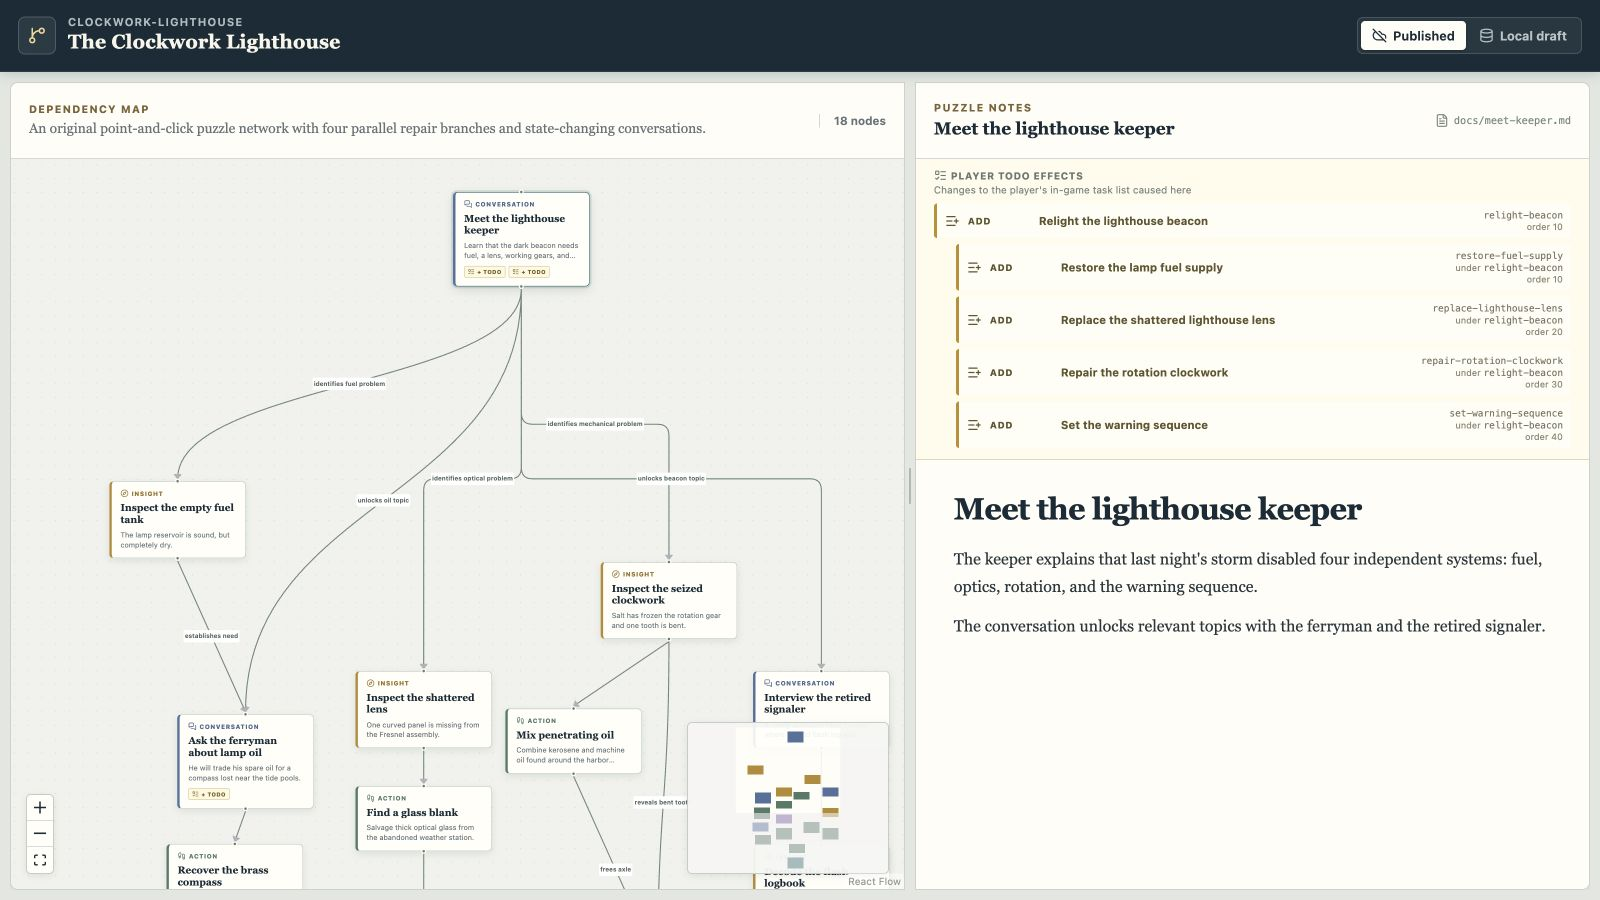
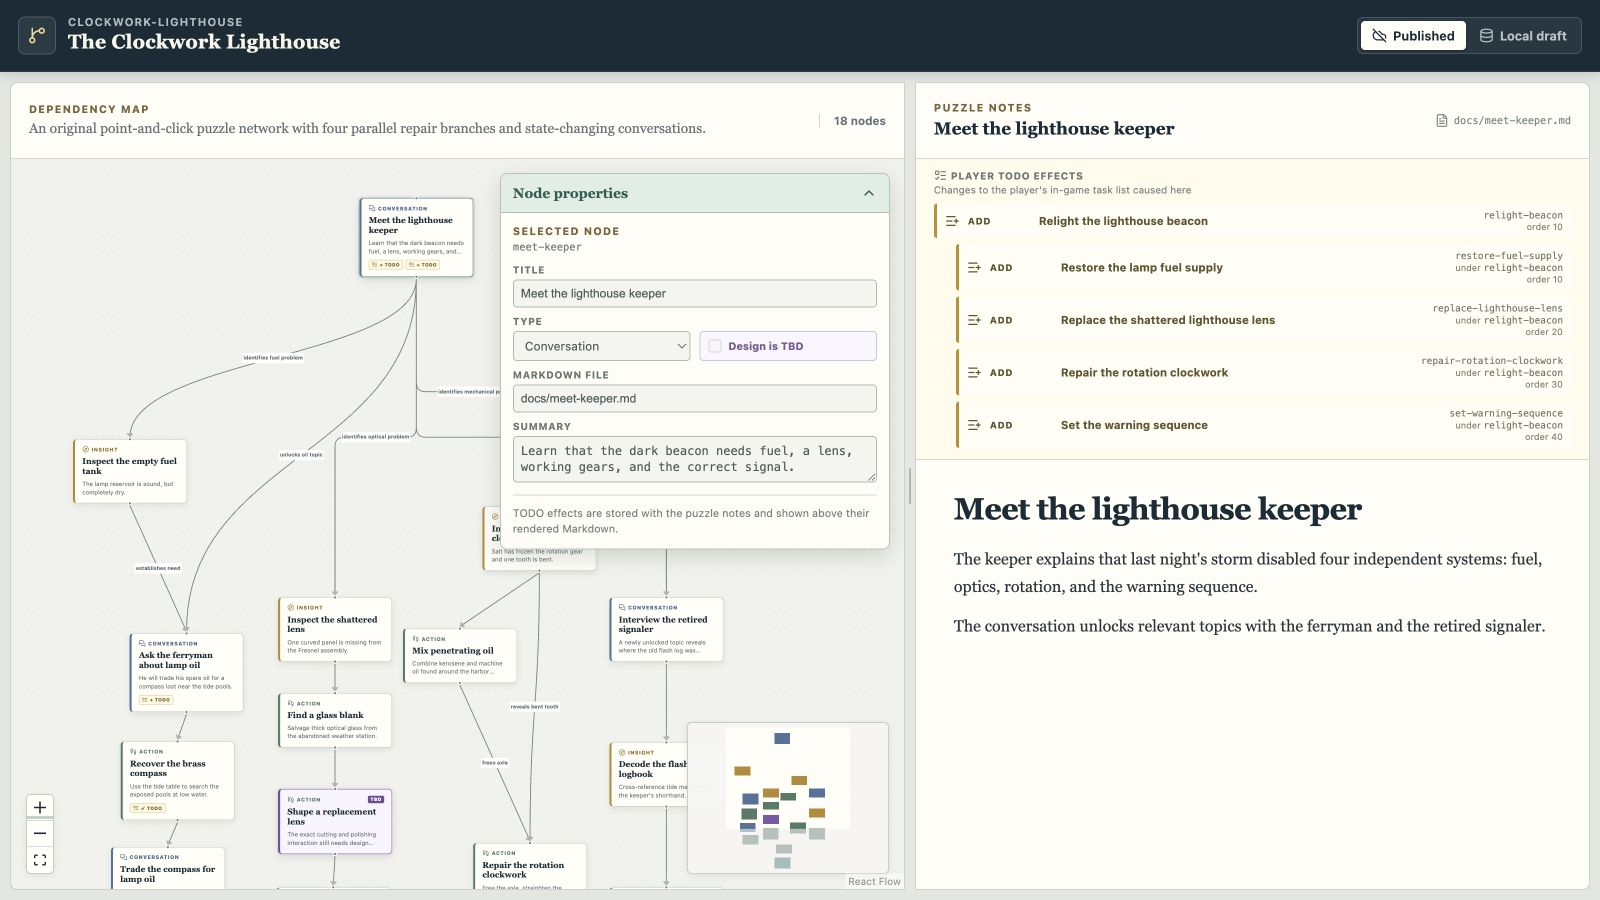
Show node properties in the published viewer
Keep the selected node inspector visible in Published mode with read-only metadata fields and no destructive controls. Preserve its collapsible behavior, add regression coverage and the corresponding architectural invariant, and refresh the README screenshot with a tightly framed Pages-build capture.

diff --git a/src/components/GraphPane.tsx b/src/components/GraphPane.tsx
@@ -486,9 +486,10 @@ export function GraphPane({
           collapsed={inspectorCollapsed}
           onToggle={() => setInspectorCollapsedState(!inspectorCollapsed)}
         />
-      ) : editable && selectedNode ? (
+      ) : selectedNode ? (
         <NodeInspector
           node={selectedNode}
+          editable={editable}
           onUpdate={(patch, label) =>
             updateNode(selectedNode.id, patch, label)
           }
@@ -503,6 +504,7 @@ export function GraphPane({
 
 interface NodeInspectorProps {
   node: PuzzleNodeDefinition;
+  editable: boolean;
   onUpdate: (patch: Partial<PuzzleNodeDefinition>, label: string) => void;
   onDelete: () => void;
   collapsed: boolean;
@@ -511,6 +513,7 @@ interface NodeInspectorProps {
 
 function NodeInspector({
   node,
+  editable,
   onUpdate,
   onDelete,
   collapsed,
@@ -542,22 +545,26 @@ function NodeInspector({
             <span className="eyebrow">Selected node</span>
             <code>{node.id}</code>
           </div>
-          <div className="inspector-header-actions">
-            <ConfirmDeleteButton
-              triggerLabel={`Delete ${node.title}`}
-              title={`Delete “${node.title}”?`}
-              message="The node and its dependencies will be removed from the chart. Its Markdown file will be kept."
-              confirmLabel="Delete node"
-              onConfirm={onDelete}
-            />
-          </div>
+          {editable ? (
+            <div className="inspector-header-actions">
+              <ConfirmDeleteButton
+                triggerLabel={`Delete ${node.title}`}
+                title={`Delete “${node.title}”?`}
+                message="The node and its dependencies will be removed from the chart. Its Markdown file will be kept."
+                confirmLabel="Delete node"
+                onConfirm={onDelete}
+              />
+            </div>
+          ) : null}
         </header>
         <label>
           <span>Title</span>
           <input
             key={`${node.id}:title:${node.title}`}
             defaultValue={node.title}
+            readOnly={!editable}
             onBlur={(event) => {
+              if (!editable) return;
               const title = event.currentTarget.value.trim();
               if (title) onUpdate({ title }, "Rename node");
               else event.currentTarget.value = node.title;
@@ -569,12 +576,14 @@ function NodeInspector({
             <span>Type</span>
             <select
               value={node.kind}
-              onChange={(event) =>
+              disabled={!editable}
+              onChange={(event) => {
+                if (!editable) return;
                 onUpdate(
                   { kind: event.target.value as PuzzleKind },
                   "Change node type",
-                )
-              }
+                );
+              }}
             >
               {puzzleKinds.map((kind) => (
                 <option key={kind} value={kind}>
@@ -587,12 +596,14 @@ function NodeInspector({
             <input
               type="checkbox"
               checked={node.status === "tbd"}
-              onChange={(event) =>
+              disabled={!editable}
+              onChange={(event) => {
+                if (!editable) return;
                 onUpdate(
                   { status: event.target.checked ? "tbd" : undefined },
                   event.target.checked ? "Mark node TBD" : "Mark node designed",
-                )
-              }
+                );
+              }}
             />
             <span>Design is TBD</span>
           </label>
@@ -602,8 +613,10 @@ function NodeInspector({
           <input
             key={`${node.id}:document:${node.document}`}
             defaultValue={node.document}
+            readOnly={!editable}
             spellCheck={false}
             onBlur={(event) => {
+              if (!editable) return;
               const document = event.currentTarget.value.trim();
               if (document.endsWith(".md")) {
                 onUpdate({ document }, "Change document path");
@@ -617,18 +630,21 @@ function NodeInspector({
           <textarea
             key={`${node.id}:summary:${node.summary ?? ""}`}
             defaultValue={node.summary}
+            readOnly={!editable}
             rows={2}
-            onBlur={(event) =>
+            onBlur={(event) => {
+              if (!editable) return;
               onUpdate(
                 { summary: event.currentTarget.value.trim() || undefined },
                 "Edit node summary",
-              )
-            }
+              );
+            }}
           />
         </label>
         <p className="todo-markdown-hint">
-          TODO effects live in a source-only comment and are edited beside the
-          node&apos;s puzzle notes.
+          {editable
+            ? "TODO effects live in a source-only comment and are edited beside the node’s puzzle notes."
+            : "TODO effects are stored with the puzzle notes and shown above their rendered Markdown."}
         </p>
       </div> : null}
     </aside>

diff --git a/tests/graph-pane.test.tsx b/tests/graph-pane.test.tsx
@@ -1,0 +1,80 @@
+// @vitest-environment jsdom
+
+import type { ReactNode } from "react";
+import { cleanup, fireEvent, render, screen } from "@testing-library/react";
+import { afterEach, describe, expect, it, vi } from "vitest";
+
+afterEach(() => {
+  window.sessionStorage.clear();
+  cleanup();
+});
+
+vi.mock("@xyflow/react", () => ({
+  ReactFlow: ({ children }: { children: ReactNode }) => <div>{children}</div>,
+  Background: () => null,
+  BackgroundVariant: { Dots: "dots" },
+  Controls: () => null,
+  MiniMap: () => null,
+  SelectionMode: { Partial: "partial" },
+  applyNodeChanges: (_changes: unknown, nodes: unknown) => nodes,
+}));
+
+import { GraphPane } from "../src/components/GraphPane";
+import type { PuzzleProject } from "../src/lib/project-types";
+
+const project: PuzzleProject = {
+  projectName: "viewer-test",
+  writable: false,
+  graph: {
+    version: 1,
+    title: "Viewer test",
+    nodes: [
+      {
+        id: "first",
+        title: "First puzzle",
+        document: "docs/first.md",
+        kind: "insight",
+        summary: "Notice the important clue.",
+        status: "tbd",
+      },
+    ],
+    edges: [],
+  },
+  layout: { nodes: { first: { x: 20, y: 40 } }, edges: {} },
+  documents: { "docs/first.md": "# First puzzle\n" },
+};
+
+describe("GraphPane viewer inspector", () => {
+  it("shows selected node metadata read-only in view mode", () => {
+    render(
+      <GraphPane
+        project={project}
+        editable={false}
+        selectedNodeId="first"
+        onSelectNode={() => undefined}
+        onProjectEdit={() => undefined}
+        onViewportChange={() => undefined}
+        canUndo={false}
+        canRedo={false}
+        onUndo={() => undefined}
+        onRedo={() => undefined}
+      />,
+    );
+
+    expect(screen.getByRole("complementary", { name: "Node properties" })).toBeTruthy();
+    expect(screen.getByDisplayValue("First puzzle")).toHaveProperty(
+      "readOnly",
+      true,
+    );
+    expect(screen.getByDisplayValue("Insight")).toHaveProperty("disabled", true);
+    expect(screen.getByDisplayValue("docs/first.md")).toHaveProperty(
+      "readOnly",
+      true,
+    );
+    expect(screen.queryByRole("button", { name: "Delete First puzzle" })).toBeNull();
+
+    fireEvent.click(screen.getByRole("button", { name: "Hide node properties" }));
+    expect(screen.getByRole("button", { name: "Show node properties" })).toBeTruthy();
+    expect(screen.queryByDisplayValue("First puzzle")).toBeNull();
+  });
+});

diff --git a/src/styles.css b/src/styles.css
@@ -816,6 +816,20 @@ select:focus-visible,
   line-height: 1.35;
 }
 
+.graph-inspector input:read-only,
+.graph-inspector select:disabled,
+.graph-inspector textarea:read-only {
+  color: #4f5d56;
+  background: #f4f5f0;
+  cursor: default;
+  opacity: 1;
+}
+
+.graph-inspector .status-toggle:has(input:disabled) {
+  cursor: default;
+  opacity: 0.86;
+}
+
 .inspector-row {
   display: grid;
   grid-template-columns: repeat(2, minmax(0, 1fr));

diff --git a/AGENTS.md b/AGENTS.md
@@ -43,7 +43,7 @@ This repository is a TypeScript/React prototype for authoring and publishing poi
 - MDXEditor treats its `markdown` prop as initialization input. A document selection must remount it with the newly selected Markdown synchronously; do not stage selection through an effect-backed draft, which causes a one-selection lag.
 - Edit mode owns node creation, metadata, deletion, drag-to-connect dependencies, edge labels/routes, document text, node positioning, and viewport. Deleting a node intentionally keeps its Markdown file so destructive cleanup is explicit and recoverable.
 - Node and dependency deletion must require confirmation. The node confirmation must state that its Markdown file is retained.
-- Node and edge properties share a collapsible graph inspector. The overlay's distinct, full-width title bar is the sole expand/collapse target and must remain visible when the content is collapsed; use vertical disclosure arrows because the content opens below. Keep destructive actions in the content area below so they cannot be confused with that large safe target. Remember its collapsed state in browser session storage; it is an author UI preference and must never be written to `graph.yaml` or `layout.json`. Selecting another graph element must not force a user-collapsed inspector open.
+- Node and edge properties share a collapsible graph inspector. The selected node's inspector remains visible in Published/view mode as a read-only explanation of the graph's metadata; edge inspection and all property mutations remain author-only. The overlay's distinct, full-width title bar is the sole expand/collapse target and must remain visible when the content is collapsed; use vertical disclosure arrows because the content opens below. Keep destructive actions in the content area below so they cannot be confused with that large safe target. Remember its collapsed state in browser session storage; it is a browser UI preference and must never be written to `graph.yaml` or `layout.json`. Selecting another graph element must not force a user-collapsed inspector open.
 - Built-in node kinds describe what an event is: `constraint`, `insight`, `move`, `conversation`, or `goal`. A state-changing conversation should be a node; downstream required dialogue or puzzles should use dependency edges.
 - TODO-list changes are effects on the node that caused them, not standalone nodes. Markdown is their sole source of truth, using a `puzzle-chart:todo-effects` YAML block inside an HTML comment at the very start of the document. The optional YAML `parent` field maps to `TodoEffect.parentId` and nests an item beneath another stable TODO ID, even when that parent was added by an earlier node. Optional non-negative integer `order` values provide stable sibling order; TODO-tree consumers sort siblings by `order` and then stable ID, and authoring defaults should increment order by ten to leave insertion gaps. The comment is directly editable in source mode, excluded from WYSIWYG/rendered prose, and presented in a dedicated panel above that prose. Hydrate `node.todo` for graph display and strip derived TODO data whenever serializing `graph.yaml`.
 - Do not restate TODO-list additions, completions, removals, nesting, or ordering in a node's rendered Markdown prose. The `puzzle-chart:todo-effects` comment is the sole source of truth; prose may still describe independent story or gameplay consequences.
